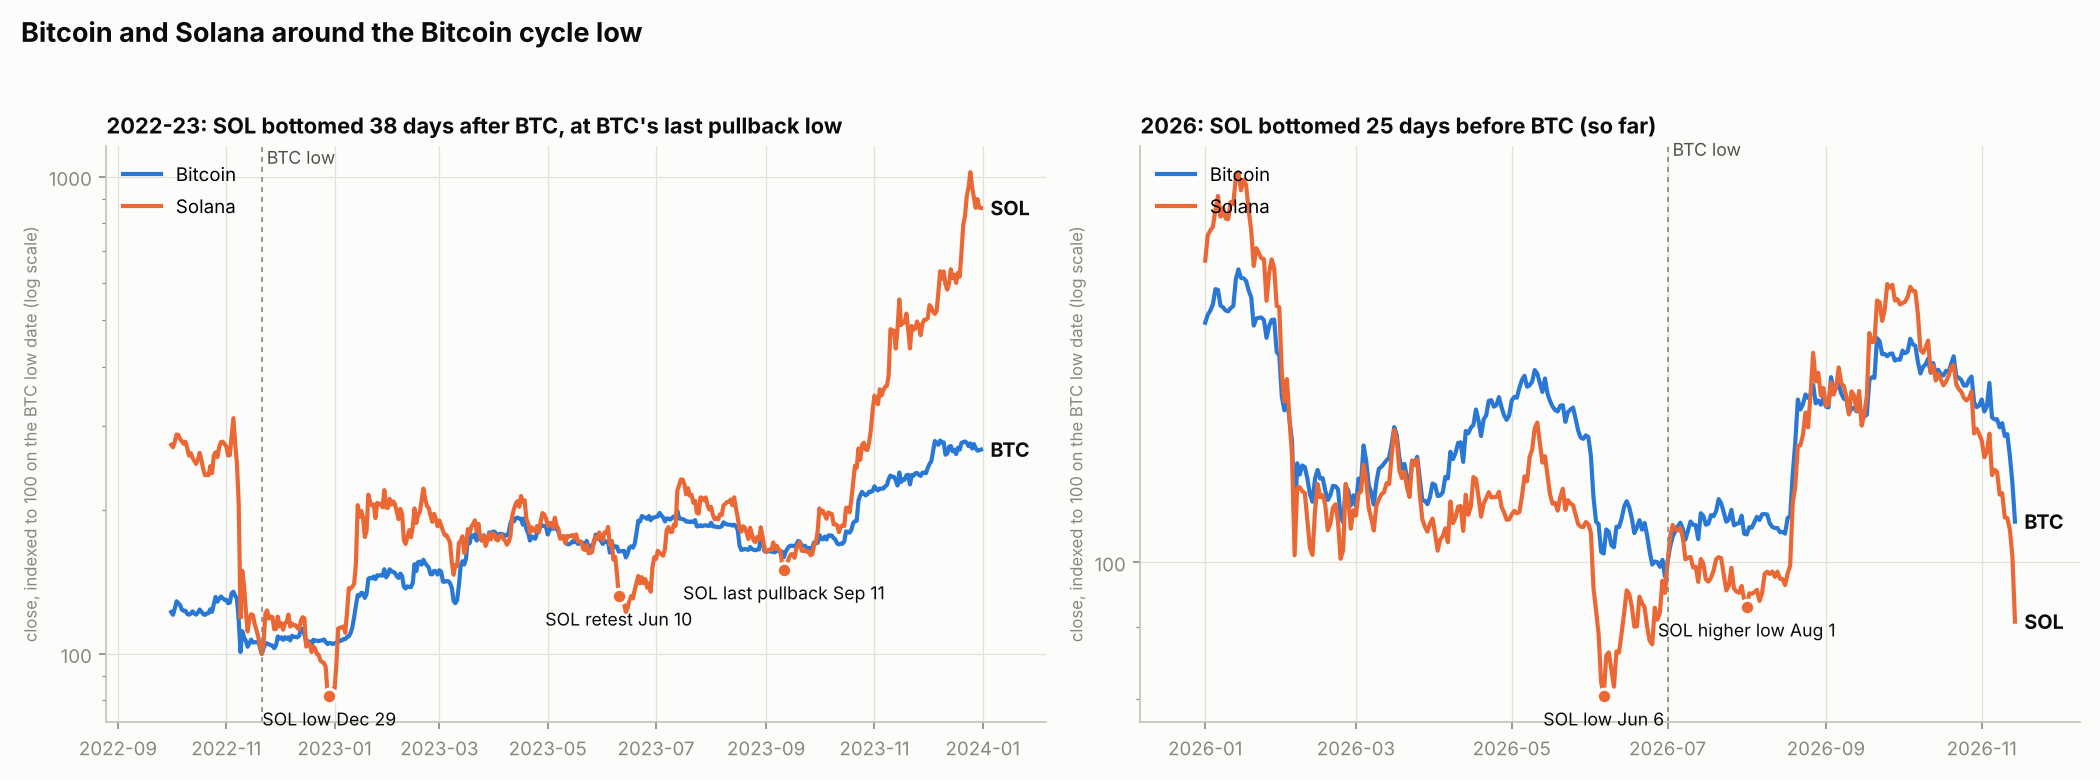
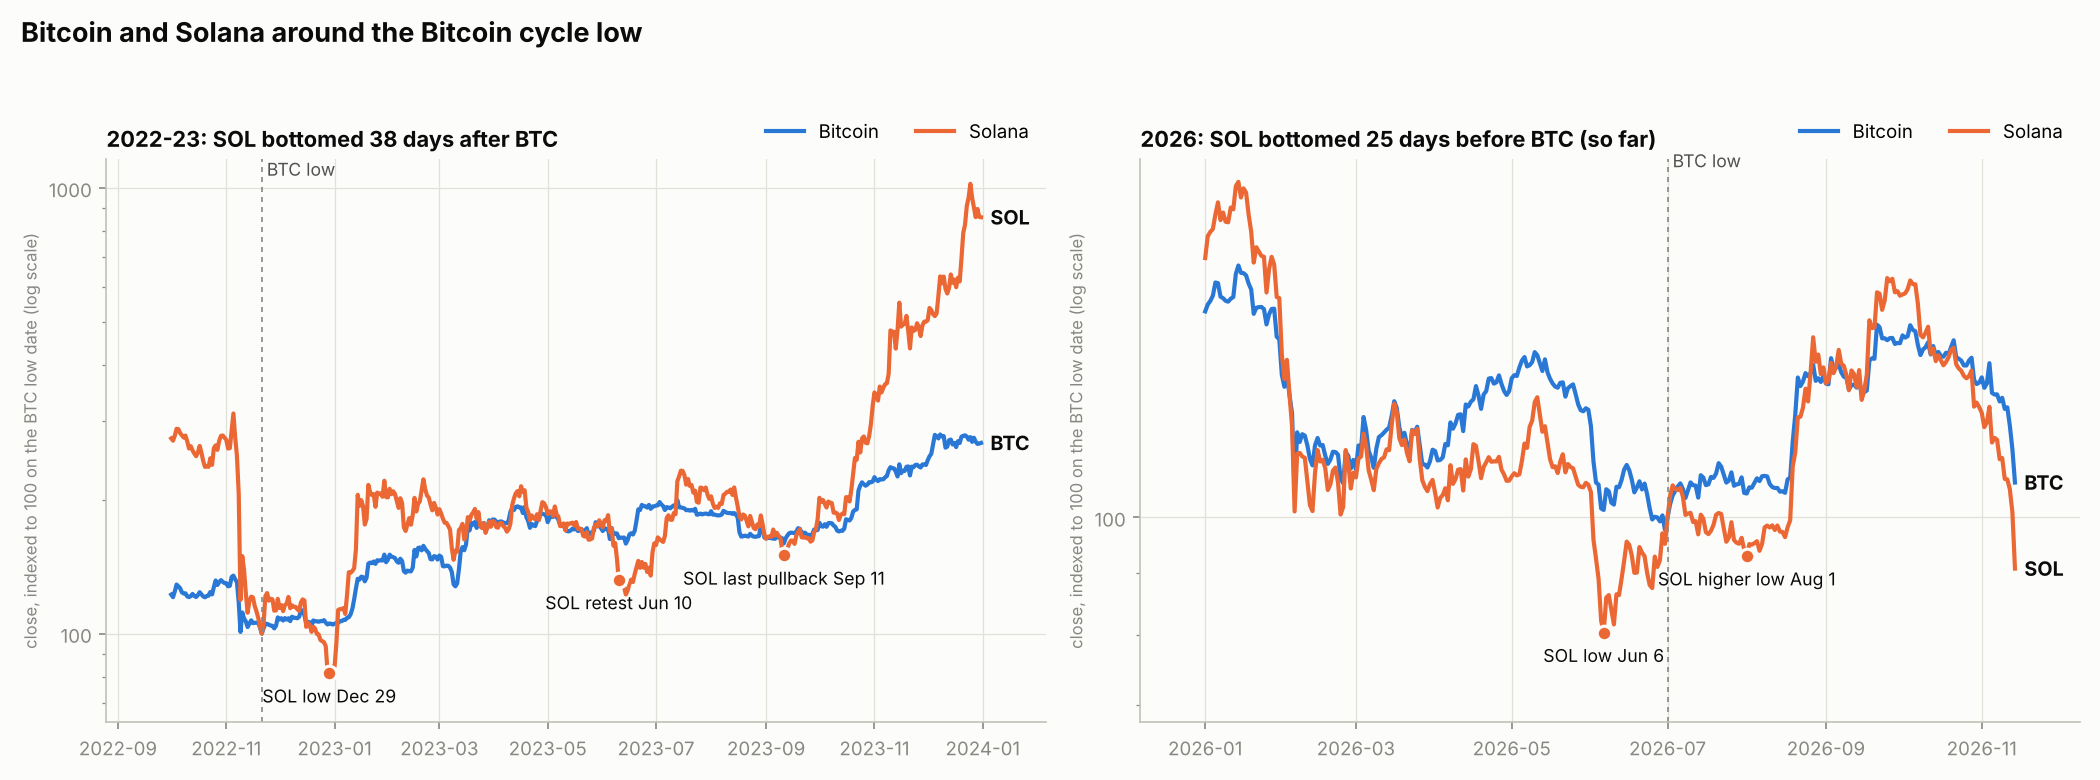
Chart layout fix for BTC-SOL study
Claude-Session: https://claude.ai/code/session_012fuP6ZNoFjwnzHHnenYBHp

diff --git a/research/sol_btc_ignition_study.py b/research/sol_btc_ignition_study.py
@@ -221,7 +221,7 @@ def chart():
     INK, MUTED, GRID, SURF, C1, C2 = "#0b0b0b", "#898781", "#e1e0d9", "#fcfcfb", "#2a78d6", "#eb6834"
     plt.rcParams.update({"font.family": ["Inter", "DejaVu Sans"], "font.size": 9, "axes.edgecolor": "#c3c2b7", "xtick.color": MUTED, "ytick.color": MUTED})
     fig, axes = plt.subplots(1, 2, figsize=(14, 5.2), facecolor=SURF)
-    for ax, (ttl, d0, a, b, marks) in zip(axes, [("2022-23: SOL bottomed 38 days after BTC, at BTC's last pullback low", "2022-11-21", "2022-10-01", "2023-12-31", [("SOL low Dec 29", "2022-12-29"), ("SOL retest Jun 10", "2023-06-10"), ("SOL last pullback Sep 11", "2023-09-11")]),
+    for ax, (ttl, d0, a, b, marks) in zip(axes, [("2022-23: SOL bottomed 38 days after BTC", "2022-11-21", "2022-10-01", "2023-12-31", [("SOL low Dec 29", "2022-12-29"), ("SOL retest Jun 10", "2023-06-10"), ("SOL last pullback Sep 11", "2023-09-11")]),
                                                  ("2026: SOL bottomed 25 days before BTC (so far)", "2026-07-01", "2026-01-01", str(SOL.index[-1].date()), [("SOL low Jun 6", "2026-06-06"), ("SOL higher low Aug 1", "2026-08-01")])]):
         d0 = pd.Timestamp(d0); bb = BTC.close[a:b] / BTC.close[d0] * 100; ss = SOL.close[a:b] / SOL.close[d0] * 100
         ax.set_facecolor(SURF); ax.grid(True, color=GRID, lw=0.6); ax.set_axisbelow(True); ax.set_yscale("log")
@@ -233,8 +233,8 @@ def chart():
             if md in ss.index: ax.plot(md, ss[md], "o", ms=7, color=C2, mec=SURF, mew=1.5); ax.annotate(lab, (md, ss[md]), xytext=(0, -14), textcoords="offset points", ha="center", fontsize=8.5, color=INK)
         ax.text(bb.index[-1], bb.iloc[-1], "  BTC", color=INK, fontsize=9.5, va="center", fontweight="bold"); ax.text(ss.index[-1], ss.iloc[-1], "  SOL", color=INK, fontsize=9.5, va="center", fontweight="bold")
         ax.set_title(ttl, loc="left", fontsize=10.5, color=INK, fontweight="bold"); ax.yaxis.set_major_formatter(matplotlib.ticker.FuncFormatter(lambda v, _: f"{v:.0f}")); ax.yaxis.set_minor_formatter(matplotlib.ticker.NullFormatter())
-        ax.set_ylabel("close, indexed to 100 on the BTC low date (log scale)", fontsize=8, color=MUTED); ax.margins(x=0.08)
-        ax.legend(handles=[plt.Line2D([], [], color=C1, lw=2, label="Bitcoin"), plt.Line2D([], [], color=C2, lw=2, label="Solana")], loc="upper left", frameon=False, fontsize=9)
+        ax.set_ylabel("close, indexed to 100 on the BTC low date (log scale)", fontsize=8, color=MUTED); ax.margins(x=0.08); lo_, hi_ = ax.get_ylim(); ax.set_ylim(lo_ * 0.88, hi_)
+        ax.legend(handles=[plt.Line2D([], [], color=C1, lw=2, label="Bitcoin"), plt.Line2D([], [], color=C2, lw=2, label="Solana")], loc="lower right", bbox_to_anchor=(1.0, 1.0), ncol=2, frameon=False, fontsize=9)
     fig.suptitle("Bitcoin and Solana around the Bitcoin cycle low", x=0.01, ha="left", fontsize=13, color=INK, fontweight="bold")
     p = os.path.join(HERE, "charts", "sol_btc_around_low.png"); fig.tight_layout(rect=(0, 0, 1, 0.95)); fig.savefig(p, dpi=150, facecolor=SURF); plt.close(fig); P(f"\n차트 저장: research/charts/sol_btc_around_low.png")
 
